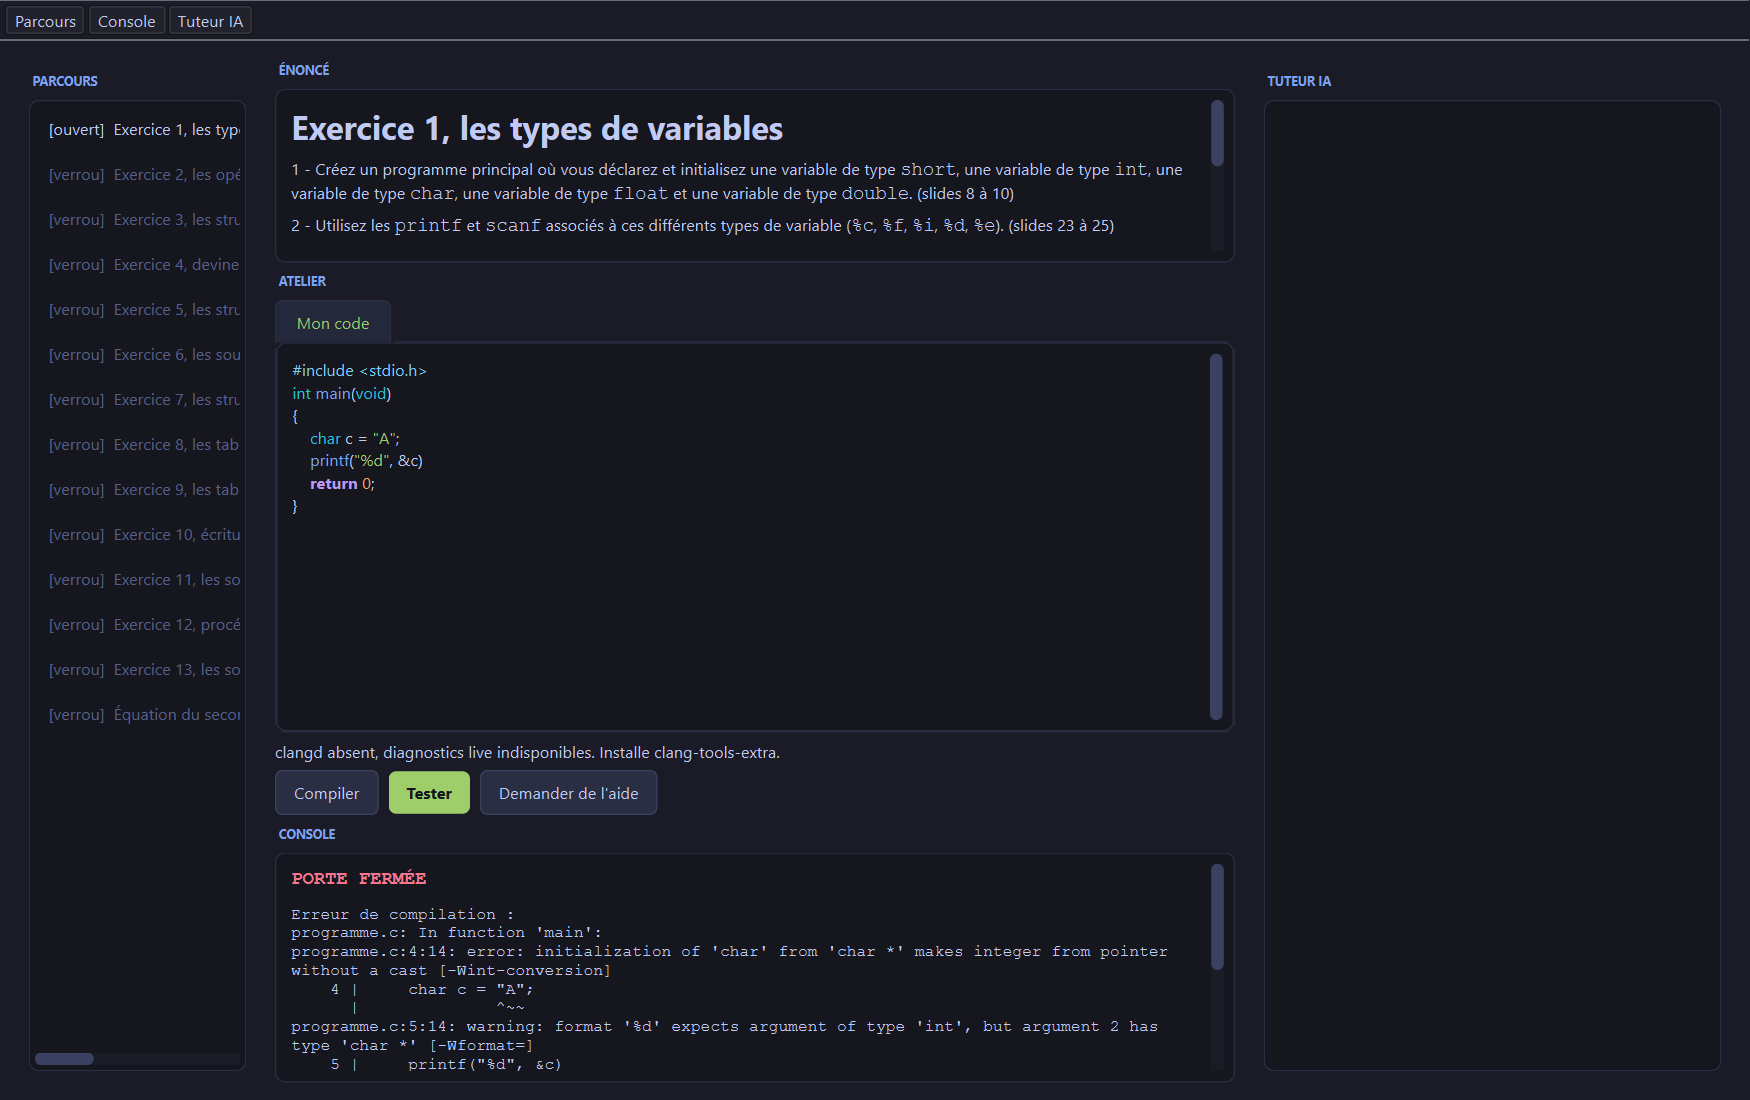
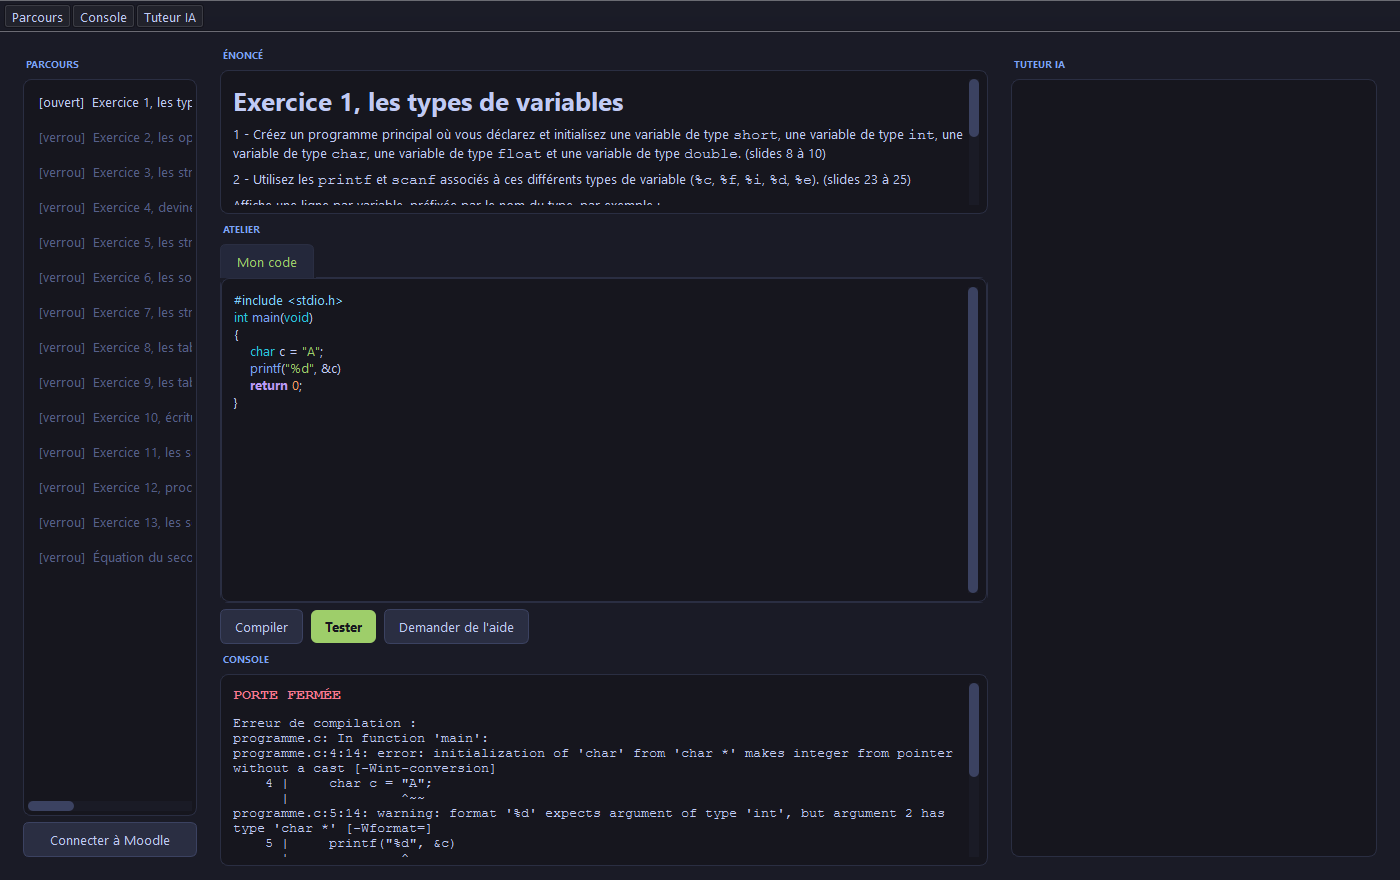
Captures : la doc disait a l'etudiant d'installer ce que le bundle embarque
Ma correction du crash 0xC0000409 avait un effet de bord que je n'avais pas
regarde. Pour empecher le QThread de ClientClangd de survivre a la sortie de
captures_doc.py, j'avais force clangd_disponible() a False. Ca eteint bien le
thread, mais fenetre.py:178 se sert de la MEME fonction pour decider d'afficher
<< clangd absent, diagnostics live indisponibles. Installe clang-tools-extra. >>.

Les captures livrees portaient donc ce bandeau : une consigne d'installation
Linux, dans la documentation d'un bundle Windows qui embarque deja clangd depuis
l'etape 3bis. resultats/ux-2026-07-02/rapport-ux.md:26 avait deja signale ce
message comme inadapte a l'etudiant ; je l'avais rendu plus visible, pas moins.

Le LSP touche les captures a deux endroits distincts, il fallait les traiter
separement au lieu de les confondre :

  - fenetre.py:640, le demarrage du client. C'est lui qui cree le QThread et
    fait planter l'interpreteur. Neutralise en remplacant _demarrer_lsp. Ca
    regle du meme coup la reproductibilite, les soulignements arrivant de facon
    asynchrone une capture les attrapait ou non selon la machine.

  - fenetre.py:178, le bandeau. Force a True desormais : la doc montre l'etat
    reel du livrable quelle que soit la machine de build.

Verifie sur les images regenerees : plus de bandeau, et 03 montre bien PORTE
OUVERTE avec le bandeau vert du niveau cache.

Au passage, une chose que ces captures m'ont apprise sur ma propre methode. En
[…]

diff --git a/outils/captures_doc.py b/outils/captures_doc.py
@@ -20,14 +20,26 @@ from PyQt6.QtWidgets import (QApplication, QDialog, QVBoxLayout, QLabel, QLineEd
 import fenetre, theme, progression, executeur, modele_etape, lsp_clangd
 
 progression.sauver = lambda *a, **k: None          # ne pas ecrire l'etat reel
-# Diagnostics live neutralises pendant les captures, pour deux raisons. D'abord la
-# reproductibilite : les soulignements de clangd arrivent de facon asynchrone, une
-# capture les attraperait ou non selon la machine. Ensuite la stabilite : ClientClangd
-# est un QThread, ce script cree des fenetres sans jamais les fermer, et un QThread
-# encore vivant detruit a la sortie fait planter l'interpreteur (0xC0000409). Sans
-# cette ligne, le build casse des que clangd est present sur le PATH -- c'est-a-dire
-# depuis que l'etape 3bis l'embarque.
-lsp_clangd.clangd_disponible = lambda: False
+
+# Le LSP touche les captures a deux endroits, et il faut traiter les deux
+# separement -- les confondre produit une doc qui ment.
+#
+# 1. Le demarrage du client. ClientClangd est un QThread, ce script cree des
+#    fenetres sans jamais les fermer, et un QThread encore vivant detruit a la
+#    sortie fait planter l'interpreteur (0xC0000409) : le build casse des que
+#    clangd est sur le PATH, c'est-a-dire depuis que l'etape 3bis l'embarque.
+#    Ne pas le demarrer regle aussi la reproductibilite, les soulignements
+#    arrivant de facon asynchrone une capture les attraperait ou non.
+fenetre.Fenetre._demarrer_lsp = lambda self: None
+#
+# 2. Le bandeau d'avertissement de fenetre.py, affiche quand clangd est absent.
+#    Le neutraliser via clangd_disponible() -> False (ce que faisait la version
+#    precedente) eteignait bien le thread, mais faisait aussi apparaitre
+#    "Installe clang-tools-extra" dans les captures livrees -- un message
+#    d'installation Linux, dans la doc d'un bundle Windows qui embarque deja
+#    clangd. On force donc True : la doc montre l'etat reel du livrable, quelle
+#    que soit la machine de build.
+lsp_clangd.clangd_disponible = lambda: True
 executeur.assurer_compilateur_sur_path()
 
 CAP = RACINE / "captures"
